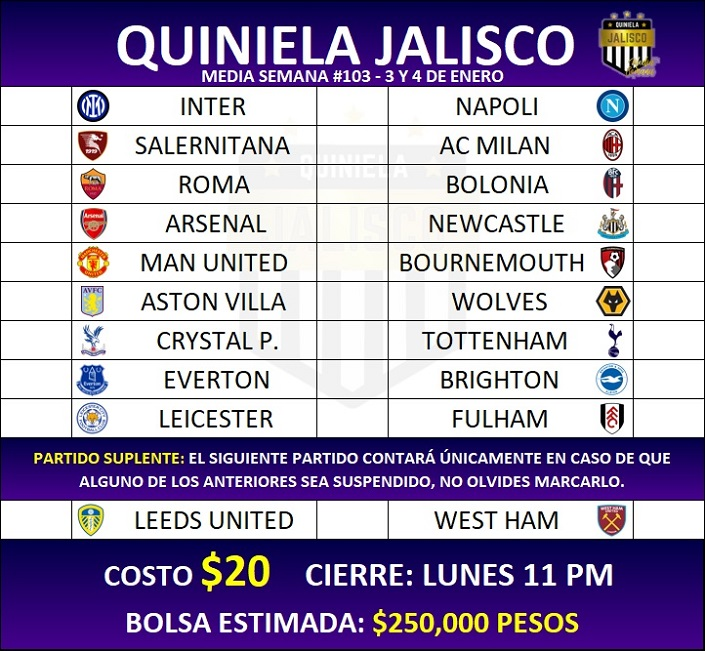
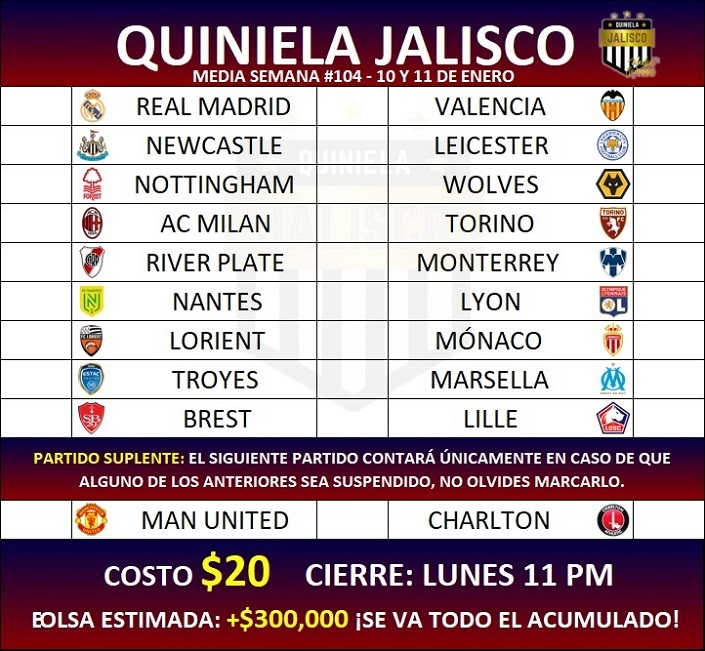
Media Semana #104

diff --git a/MediaSemana/stylesmSusp.css b/MediaSemana/stylesmSusp.css
@@ -93,8 +93,8 @@ body{
     margin-top: 9%;
     border: solid 1px black;
     border-radius: 0 0 14px 14px;
-    background: -webkit-linear-gradient(1turn, rgb(0,2,67)  ,rgb(41,0,111) 80%);
-    background: linear-gradient(1turn, rgb(0,2,67)  ,rgb(41,0,111) 80%);
+    background: -webkit-linear-gradient(1turn, rgb(0,2,67)  ,rgb(88,0,25) 80%);
+    background: linear-gradient(1turn, rgb(0,2,67)  ,rgb(88,0,25) 80%);
 }
 
 .text-lg{
@@ -289,16 +289,15 @@ h6{
 }
 
 #cantidad:before{
-    content:' $250,000 pesos \A';
+    content:' +$300,000 pesos \A';
     color: yellow;
     white-space:pre;
 }
 
 #sub1:before{
-    content:'' ;
-    color: black;
+    content:'¡Se va todo el acumulado!' ;
+    color: white;
     white-space:pre;
-    text-shadow: 1px 1px 5px white;
 }
 
 #sub2:before{
@@ -322,7 +321,7 @@ h6{
 #touchIconDiv{
     transform: rotate(315deg);
     position: absolute;
-    top: 140px;
+    top: 170px;
     height: 0px;
     pointer-events:none;
 }

diff --git a/var.js b/var.js
@@ -1,6 +1,6 @@
 var tel  = "5213317816346";
 var telm = "5213325365796";
-var suspIndex  = [1,3];
+var suspIndex  = [];
 var suspIndexm = null;
 var price  = 25;
 var pricem = 20;
